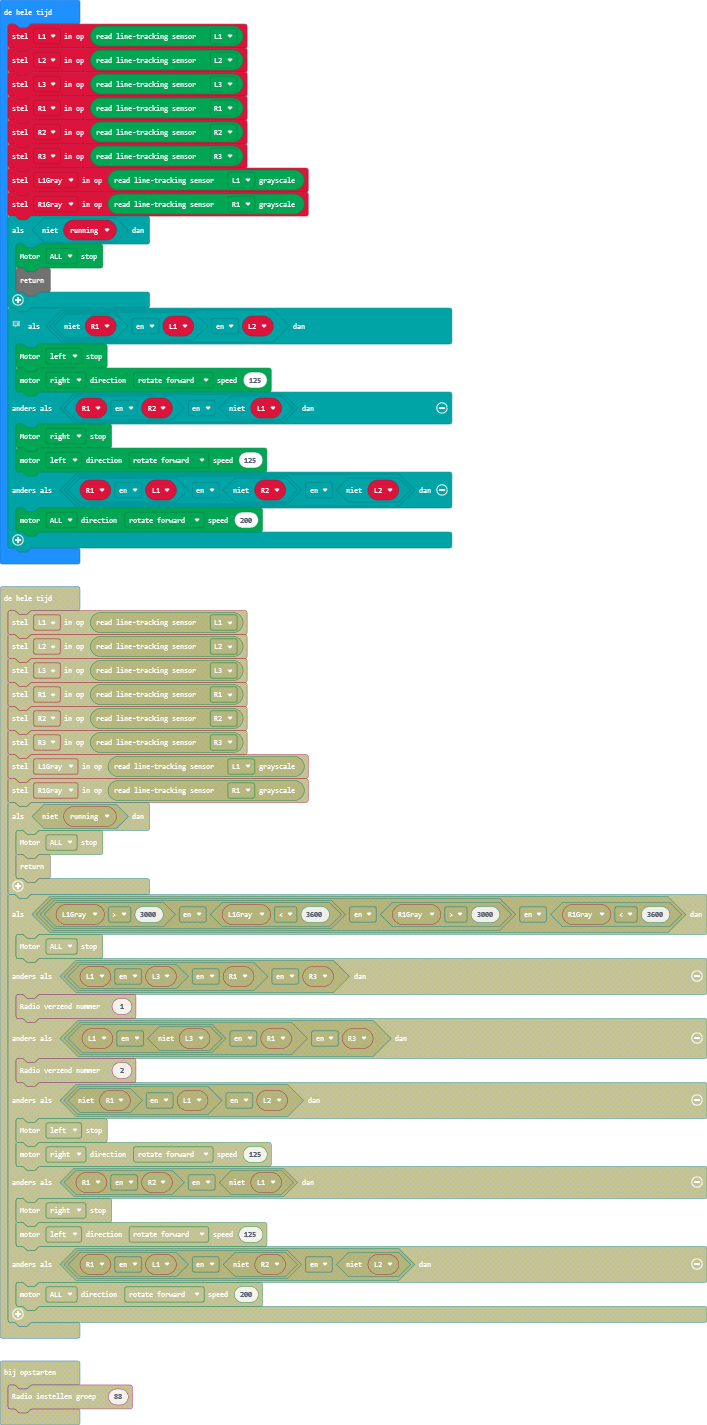
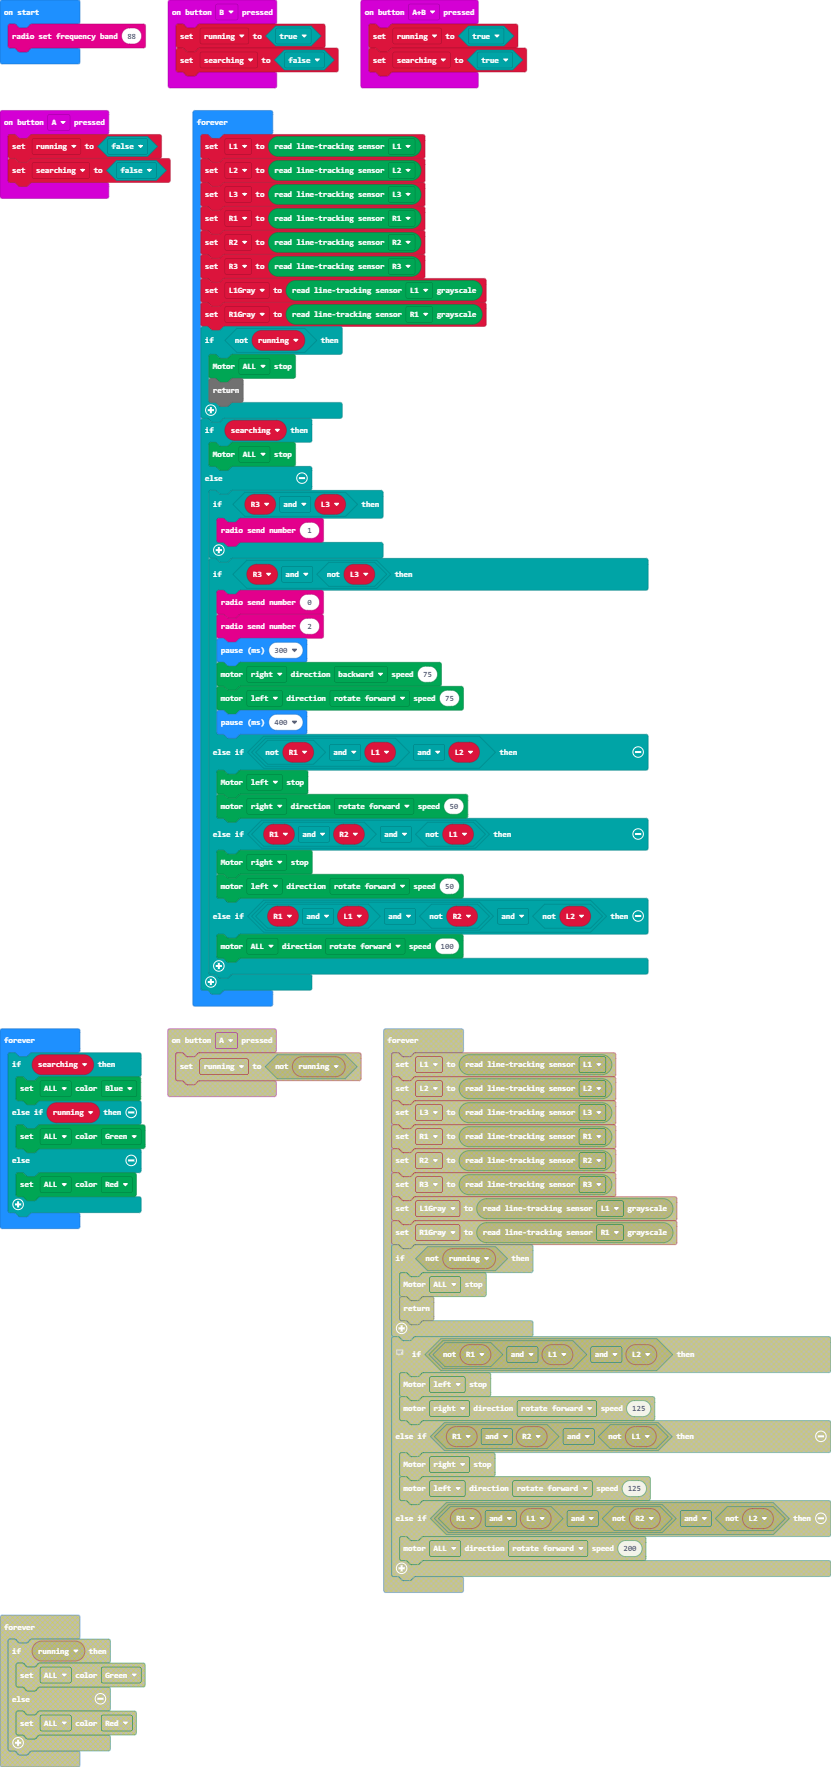
Some radio and shit

diff --git a/main.ts b/main.ts
@@ -1,4 +1,5 @@
 let running = false
+let searching = false
 let L1 = 0
 let L2 = 0
 let L3 = 0
@@ -8,7 +9,16 @@ let R3 = 0
 let L1Gray = 0
 let R1Gray = 0
 input.onButtonPressed(Button.A, function () {
-    running = !(running)
+    running = false
+    searching = false
+})
+input.onButtonPressed(Button.B, function () {
+    running = true
+    searching = false
+})
+input.onButtonPressed(Button.AB, function () {
+    running = true
+    searching = true
 })
 basic.forever(function () {
     L1 = DFRobotMaqueenPlus.readPatrol(Patrol.L1)
@@ -23,25 +33,37 @@ basic.forever(function () {
         DFRobotMaqueenPlus.mototStop(Motors.ALL)
         return
     }
-    if (R3 && !(L3) && (L1 || L2 || R1 || R2)) {
-        basic.pause(300)
-        DFRobotMaqueenPlus.mototRun(Motors.M2, Dir.CCW, 75)
-        DFRobotMaqueenPlus.mototRun(Motors.M1, Dir.CW, 75)
-        basic.pause(400)
-    } else if (!(R1) && L1 && L2) {
-        DFRobotMaqueenPlus.mototStop(Motors.M1)
-        DFRobotMaqueenPlus.mototRun(Motors.M2, Dir.CW, 125)
-    } else if (R1 && R2 && !(L1)) {
-        DFRobotMaqueenPlus.mototStop(Motors.M2)
-        DFRobotMaqueenPlus.mototRun(Motors.M1, Dir.CW, 125)
-    } else if (R1 && L1 && !(R2) && !(L2)) {
-        DFRobotMaqueenPlus.mototRun(Motors.ALL, Dir.CW, 200)
+    if (searching) {
+        DFRobotMaqueenPlus.mototStop(Motors.ALL)
+    } else {
+        if (R3 && L3) {
+            radio.sendNumber(1)
+        }
+        if (R3 && !(L3)) {
+            radio.sendNumber(0)
+            radio.sendNumber(2)
+            basic.pause(300)
+            DFRobotMaqueenPlus.mototRun(Motors.M2, Dir.CCW, 75)
+            DFRobotMaqueenPlus.mototRun(Motors.M1, Dir.CW, 75)
+            basic.pause(400)
+        } else if (!(R1) && L1 && L2) {
+            DFRobotMaqueenPlus.mototStop(Motors.M1)
+            DFRobotMaqueenPlus.mototRun(Motors.M2, Dir.CW, 50)
+        } else if (R1 && R2 && !(L1)) {
+            DFRobotMaqueenPlus.mototStop(Motors.M2)
+            DFRobotMaqueenPlus.mototRun(Motors.M1, Dir.CW, 50)
+        } else if (R1 && L1 && !(R2) && !(L2)) {
+            DFRobotMaqueenPlus.mototRun(Motors.ALL, Dir.CW, 100)
+        }
     }
 })
 basic.forever(function () {
-    if (running) {
+    if (searching) {
+        DFRobotMaqueenPlus.setRGBLight(RGBLight.RGBA, Color.BLUE)
+    } else if (running) {
         DFRobotMaqueenPlus.setRGBLight(RGBLight.RGBA, Color.GREEN)
     } else {
         DFRobotMaqueenPlus.setRGBLight(RGBLight.RGBA, Color.RED)
     }
 })
+radio.setFrequencyBand(88)
